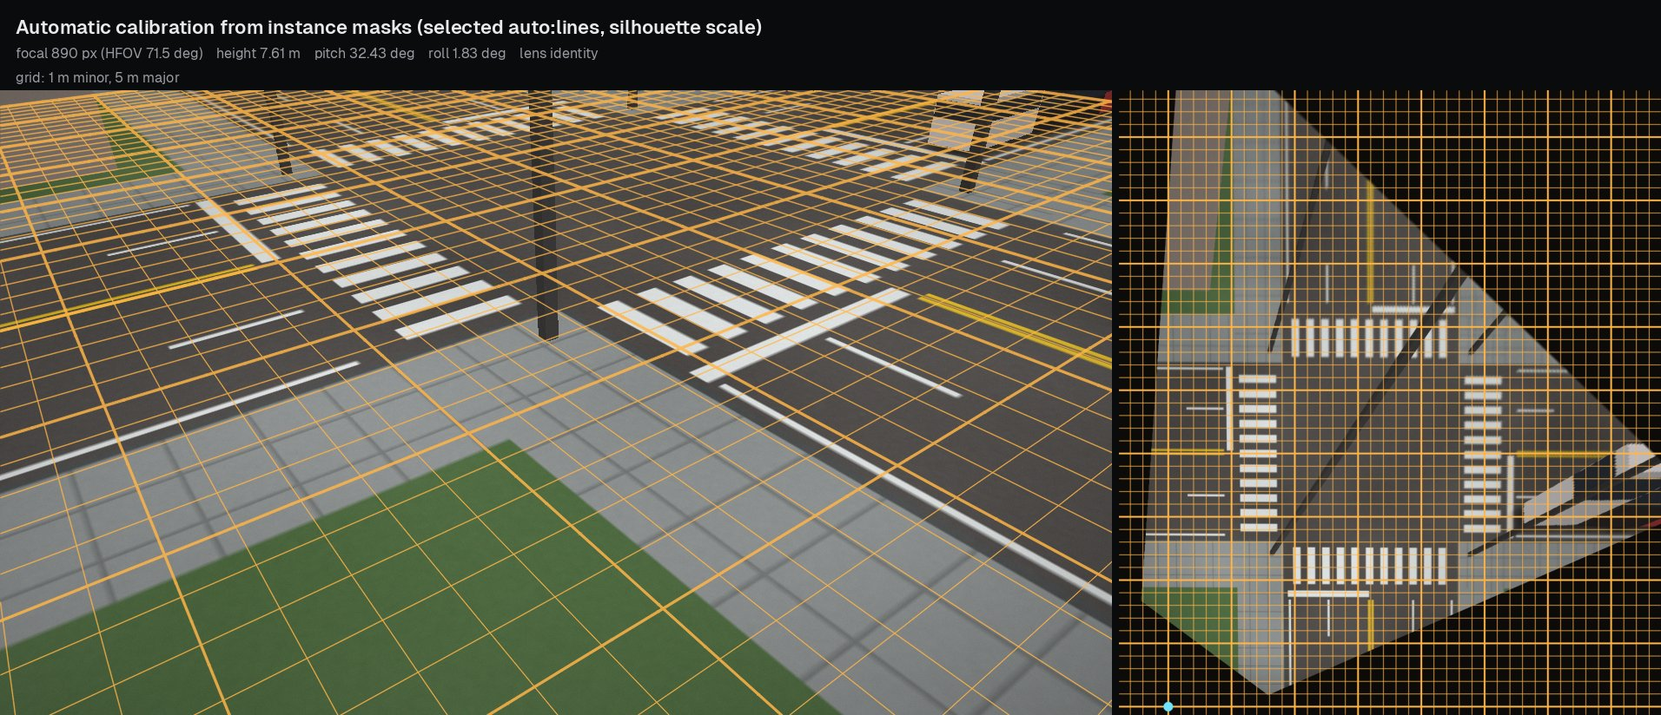
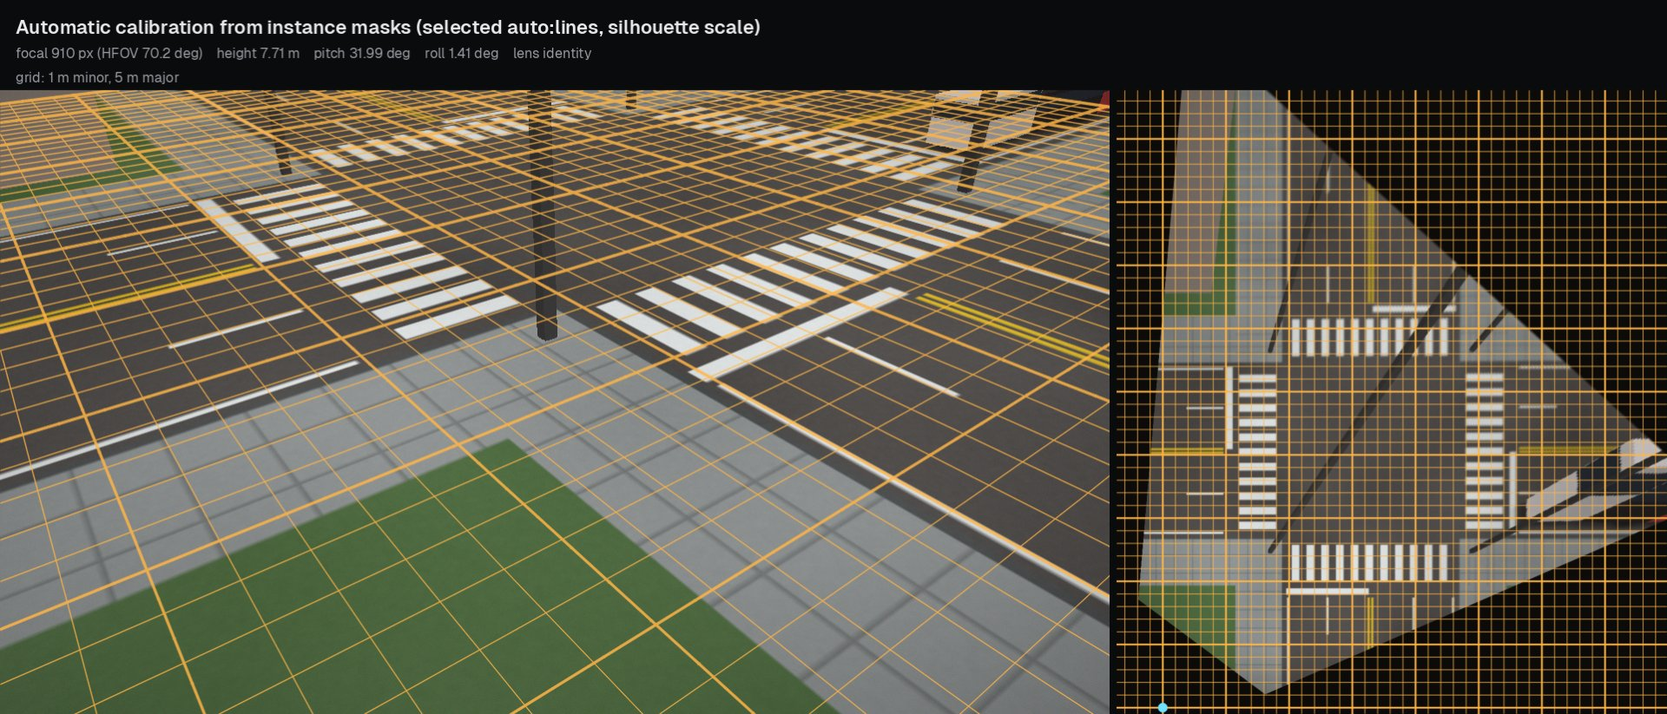
Use the street pair for the focal length unless the vertical segments reject right angles
A far vertical vanishing point is poorly constrained along its distance from the
image centre. On the synthetic intersection, the few short pole edges moved the
focal length by 7 % between OpenCV 4.13 and 5.0, which failed the lens test on
CI. The street pair is now tested against the vertical segments with a
likelihood-ratio test and used when it is not rejected. Line calibration of the
synthetic scene improves from -2.7 % to -0.4 % in focal length, and both
OpenCV versions agree; on the public intersection clips the test rejects the
pair and the cameras are unchanged.

diff --git a/src/tachymetry/calib/vanishing.py b/src/tachymetry/calib/vanishing.py
@@ -19,7 +19,7 @@ from ..geometry.camera import CalibrationError, Camera
 from ..geometry.lens import IdentityLens, Lens
 from .lines import Segments, VanishingPoint, estimate_vanishing_points
 
-__all__ = ["focal_from_vps", "camera_from_vps", "select_orthogonal_pair", "classify_vertical"]
+__all__ = ["focal_from_vps", "camera_from_vps", "select_orthogonal_pair", "classify_vertical", "vertical_consistency"]
 
 
 def focal_from_vps(v1: np.ndarray, v2: np.ndarray, pp: np.ndarray) -> float | None:
@@ -85,6 +85,74 @@ def select_orthogonal_pair(
             if best is None or score > best[3]:
                 best = (vps[i], vps[j], f, score)
     return None if best is None else best[:3]
+
+
+def vertical_consistency(
+    segs: Segments,
+    vertical: VanishingPoint,
+    v1: VanishingPoint,
+    v2: VanishingPoint,
+    focal: float,
+    image_size: tuple[int, int],
+    threshold_deg: float = 1.5,
+    level: float = 5.99,
+    sigma_px: float = 1.0,
+) -> dict:
+    """Test right-angled streets against the vertical evidence.
+
+    Two orthogonal ground directions imply a vertical vanishing point, the image of the normal
+    of their plane. The near-vertical segments of ``segs`` that support the measured ``vertical``
+    are fitted by weighted least squares on their angular residuals, and the implied point is
+    compared with the fit by a likelihood-ratio test with two degrees of freedom (``level`` = 5.99
+    is the 95 % quantile). The direction error of a segment of length ``L`` is taken as
+    ``sqrt(2) * sigma_px / L`` (endpoint noise plus the departure of real poles and facades from
+    the vertical), inflated when the residuals are larger than that. A far vertical vanishing point
+    is poorly constrained along its distance from the image centre, so its focal length is often
+    less precise than that of the street pair; this test tells whether the vertical contradicts
+    the street pair.
+
+    Returns ``{"n", "statistic", "rejected"}``; with fewer than four supporting segments the test
+    cannot reject.
+    """
+    from scipy.optimize import minimize
+
+    from .lines import _angular_residual
+
+    w, h = image_size
+    pp = np.array([(w - 1) / 2, (h - 1) / 2])
+    K = np.array([[focal, 0, pp[0]], [0, focal, pp[1]], [0, 0, 1.0]])
+    Ki = np.linalg.inv(K)
+    normal = np.cross(_direction(v1.point, Ki), _direction(v2.point, Ki))
+    implied = K @ normal
+    d = segs.directions
+    sv = segs.subset(np.abs(d[:, 1]) > math.cos(math.radians(25)))
+    if len(sv):
+        sv = sv.subset(_angular_residual(sv, vertical.point) < math.radians(threshold_deg))
+    n = len(sv)
+    if n < 4:
+        return {"n": n, "statistic": 0.0, "rejected": False}
+    wt = sv.lengths**2 / (2.0 * sigma_px**2)  # inverse variance of each segment's direction
+
+    def cost(v: np.ndarray) -> float:
+        return float(np.sum(wt * _angular_residual(sv, v) ** 2))
+
+    # minimise over the direction of the homogeneous point (finite and infinite points alike)
+    scale = np.array([w, w, 1.0])
+
+    def to_point(ab: np.ndarray) -> np.ndarray:
+        a, b = ab
+        u = np.array([math.sin(a) * math.cos(b), math.sin(a) * math.sin(b), math.cos(a)])
+        return np.array([u[0] * scale[0] + pp[0] * u[2], u[1] * scale[1] + pp[1] * u[2], u[2]])
+
+    p0 = vertical.point
+    u0 = np.array([p0[0] - pp[0] * p0[2], p0[1] - pp[1] * p0[2], p0[2]]) / scale
+    u0 = u0 / np.linalg.norm(u0) * (1 if u0[2] >= 0 else -1)
+    ab0 = np.array([math.acos(np.clip(u0[2], -1, 1)), math.atan2(u0[1], u0[0])])
+    best = minimize(lambda ab: cost(to_point(ab)), ab0, method="Nelder-Mead", options={"xatol": 1e-7, "fatol": 1e-12})
+    s_min = min(float(best.fun), cost(vertical.point))
+    inflation = max(1.0, s_min / (n - 2))  # residuals larger than the noise model
+    stat = (cost(implied) - s_min) / inflation
+    return {"n": n, "statistic": float(stat), "rejected": bool(stat > level)}
 
 
 def camera_from_vps(

diff --git a/src/tachymetry/calib/from_lines.py b/src/tachymetry/calib/from_lines.py
@@ -3,7 +3,10 @@
 Pipeline: plumb-line lens estimate on the traffic-free background, painted
 marking extraction, LSD segments, vanishing points of the two ground
 directions (lane lines, crosswalk stripes, kerbs, stop lines) and of the
-vertical (poles, facades), then rotation and focal length from orthogonality.
+vertical (poles, facades), then rotation and focal length: from the two ground
+directions when the vertical does not contradict right-angled streets
+(:func:`~tachymetry.calib.vanishing.vertical_consistency`), from one ground
+direction and the vertical otherwise.
 The metric scale comes from a :class:`ScaleCue`.
 """
 
@@ -20,7 +23,7 @@ from ..geometry.lens import IdentityLens, Lens
 from .lines import Segments, detect_segments, estimate_lens_vp_consistency, marking_mask
 from .result import CalibrationResult
 from .scale import scale_from_distance, scale_from_lane_spacing, scale_to_height
-from .vanishing import camera_from_vps, select_orthogonal_pair, vanishing_points_from_segments
+from .vanishing import camera_from_vps, select_orthogonal_pair, vanishing_points_from_segments, vertical_consistency
 
 __all__ = ["ScaleCue", "calibrate_from_lines", "apply_scale_cue"]
 
@@ -165,15 +168,23 @@ def calibrate_from_lines(
 
     cam = None
     main = None
+    pair = select_orthogonal_pair(horiz, size, vertical)
     if vertical is not None and horiz:
-        # preferred: a ground direction and the vertical give the focal length without assuming
-        # that the streets meet at right angles
+        # A ground direction and the vertical give the focal length without assuming that the
+        # streets meet at right angles, but a far vertical vanishing point fixes it poorly; the
+        # street pair is used instead when the vertical segments do not contradict it.
         cands = []
         for vp in horiz:
             f = focal_from_vps(vp.point, vertical.point, pp)
             if f is not None and f_lo <= f <= f_hi:
                 cands.append((vp.support, vp, f))
-        if cands:
+        details["focal_candidates"] = [c[2] for c in cands]
+        use_pair = False
+        if cands and pair is not None:
+            test = vertical_consistency(all_segs, vertical, pair[0], pair[1], pair[2], size, threshold_deg)
+            details["orthogonality_test"] = test
+            use_pair = not test["rejected"]
+        if cands and not use_pair:
             cands.sort(key=lambda c: -c[0])
             _, main, f = cands[0]
             fs = [c[2] for c in cands[:2]]
@@ -181,16 +192,17 @@ def calibrate_from_lines(
                 f = float(np.average(fs, weights=[c[0] for c in cands[:2]]))
             cam = camera_from_vps(main.point, None, size, v_z=vertical.point, focal=f, lens=lens_obj)
             details["solution"] = "ground direction + vertical (no orthogonality assumption)"
-            details["focal_candidates"] = [c[2] for c in cands]
     if cam is None:
-        pair = select_orthogonal_pair(horiz, size, vertical)
         if pair is None:
             raise CalibrationError("could not find two independent vanishing directions; use another method")
         vx, vy, f = pair
         main = vx if vx.support >= vy.support else vy
         other = vy if main is vx else vx
         cam = camera_from_vps(main.point, other.point, size, v_z=None, focal=f, lens=lens_obj)
-        details["solution"] = "two ground directions assumed orthogonal"
+        if "orthogonality_test" in details:
+            details["solution"] = "two orthogonal ground directions, consistent with the vertical"
+        else:
+            details["solution"] = "two ground directions assumed orthogonal"
         details["assumes_orthogonal_streets"] = True
     vx = main
     cam, sinfo = apply_scale_cue(cam, cue, mark_segs.subset(main.inliers))

diff --git a/tests/test_calibration.py b/tests/test_calibration.py
@@ -105,6 +105,39 @@ def test_tan_lens_is_recovered_from_straight_lines():
     assert abs(res.camera.pitch - cam.pitch) < 1.0
 
 
+def test_vertical_consistency_separates_right_angles_from_oblique_streets():
+    """Pole edges accept a right-angled street pair and reject streets meeting at 70 degrees."""
+    from tachymetry.calib.lines import Segments, VanishingPoint
+    from tachymetry.calib.vanishing import focal_from_vps, vertical_consistency
+
+    size = (1280, 720)
+    cam = Camera.from_pose(size, focal=900, height=8, pitch=30, yaw=20, roll=0.5)
+
+    def vp(d):
+        p = cam.K @ cam.R @ np.asarray(d, float)
+        return VanishingPoint(p / np.linalg.norm(p), np.zeros(0, bool), 1.0)
+
+    vert = vp([0, 0, 1])
+    v = vert.xy
+    rng = np.random.default_rng(0)
+    segs = []
+    for x in np.linspace(80, 1200, 12):  # 120 px pole edges across the image, endpoint noise 0.3 px
+        top = np.array([x, rng.uniform(40, 400)])
+        d = (v - top) / np.linalg.norm(v - top)
+        segs.append([*top, *(top + 120 * d)])
+    segs = Segments(np.array(segs) + rng.normal(0, 0.3, (12, 4)))
+    pp = np.array([(size[0] - 1) / 2, (size[1] - 1) / 2])
+
+    vx, vy = vp([1, 0, 0]), vp([0, 1, 0])
+    right = vertical_consistency(segs, vert, vx, vy, focal_from_vps(vx.point, vy.point, pp), size)
+    a = np.radians(70)
+    vo = vp([np.cos(a), np.sin(a), 0])
+    f_oblique = focal_from_vps(vx.point, vo.point, pp)  # the focal length right angles would imply
+    oblique = vertical_consistency(segs, vert, vx, vo, f_oblique, size)
+    assert right["n"] == 12 and not right["rejected"]
+    assert oblique["rejected"]
+
+
 def test_dash_regularity_checks_the_horizon():
     """Dash chains are recognised by their cross-ratio, and are regular only under a correct horizon."""
     from tachymetry.calib.from_markings import DashedLine, _regular_runs, marking_regularity

diff --git a/docs/docs/guide/auto-calibration.md b/docs/docs/guide/auto-calibration.md
@@ -44,7 +44,14 @@ $$
 f^2 = -(v_1 - c)\cdot(v_2 - c)
 $$
 
-(`focal_from_vps`). The preferred solution pairs each horizontal vanishing point with the vertical one, which are orthogonal whatever the road direction. Candidates with a horizontal field of view outside 15 to 130 degrees are discarded, the best-supported one is used, and the two best focal lengths are averaged (weighted by support) when they agree within 10 %. This solution makes no assumption that streets meet at right angles. Only without a usable vertical vanishing point are two horizontal vanishing points assumed orthogonal (`select_orthogonal_pair`, scored by $\sqrt{s_i s_j}$ times $|\cos \angle(n_{ij}, d_z)|^8$ when a vertical direction exists), which is recorded as `details["assumes_orthogonal_streets"]`. With a single road direction and no vertical structure, the focal length is not observable and the `lines` candidate fails.
+(`focal_from_vps`). Two solutions are available.
+
+- **Vertical solution.** Each horizontal vanishing point paired with the vertical one, which are orthogonal whatever the road direction, gives a focal length. Candidates with a horizontal field of view outside 15 to 130 degrees are discarded, the best-supported one is used, and the two best focal lengths are averaged (weighted by support) when they agree within 10 %. This solution makes no assumption that streets meet at right angles, but a far vertical vanishing point is poorly constrained along its distance from the image centre, and the focal length inherits that uncertainty.
+- **Street pair.** The best pair of horizontal vanishing points that are orthogonal for a plausible focal length (`select_orthogonal_pair`, scored by $\sqrt{s_i s_j}$ times $|\cos \angle(n_{ij}, d_z)|^8$ when a vertical direction exists).
+
+The street pair is used when the vertical segments do not contradict it (`vertical_consistency`). The pair implies a vertical vanishing point, the image of the normal of its plane. It is compared with the weighted least-squares fit of the near-vertical segments that support the measured vertical, by a likelihood-ratio test with two degrees of freedom at the 95 % level. The direction error of a segment of length $L$ is taken as $\sqrt{2}\,\sigma / L$ with $\sigma$ = 1 px, which covers endpoint noise and the departure of real poles and facades from the vertical; it is inflated when the residuals are larger. When the test rejects the pair, or without a pair, the vertical solution is used; without a usable vertical vanishing point, the pair is used untested. `details["orthogonality_test"]` reports the test and `details["assumes_orthogonal_streets"]` is set whenever the pair is used.
+
+On the synthetic intersection, 15 short pole edges do not reject the pair, whose focal length is within 0.4 % of the truth; the vertical solution would underestimate it by 2.7 %. On the public intersection clips, 31 to 46 pole and facade segments reject the pair, and the vertical solution is used. With a single road direction and no vertical structure, the focal length is not observable and the `lines` candidate fails.
 
 The rotation follows from the back-projected directions $d_x = K^{-1} v_x / \lVert K^{-1} v_x \rVert$ (the main road, world $+x$) and $d_z$ (vertical, oriented towards the top of the image), with $d_x$ orthogonalised against $d_z$ and oriented into the scene, $d_y = d_z \times d_x$ and $R = [d_x\ d_y\ d_z]$ projected onto $SO(3)$ (`camera_from_vps`). The camera is placed at height 1 and rejected unless $0° < \vartheta < 90°$. The `lines` score is the support of the main vanishing point as a fraction of the marking-segment length.
 
@@ -126,13 +133,13 @@ $$
 S = e^{-a / 10°}\; e^{-|\beta| / 0.15}\; e^{-c / 3°}\; e^{-\rho / 0.1} \times \begin{cases} 1 & 10° \le \mathrm{HFOV} \le 125° \\ 0.1 & \text{otherwise} \end{cases},
 $$
 
-with factors omitted when their evidence is missing; when such chains exist but $\rho$ is undefined for a camera (dash ends above its horizon), the factor is 0.5. The candidate with the highest $S$ is selected, except that a given field of view makes the `fov+vp` candidate the choice whenever it exists. With instance masks instead of cuboids, the footprint terms are absent, so the ranking rests on the vanishing-point residual and the dash regularity. The `lines` camera is computed from the same vanishing points that enter $c$, so its $c$ is close to zero by construction.
+with factors omitted when their evidence is missing; when such chains exist but $\rho$ is undefined for a camera (dash ends above its horizon), the factor is 0.5. The candidate with the highest $S$ is selected, except that a given field of view makes the `fov+vp` candidate the choice whenever it exists. With instance masks instead of cuboids, the footprint terms are absent, so the ranking rests on the vanishing-point residual and the dash regularity. A `lines` camera from the vertical solution is computed from the same vanishing points that enter $c$, so its $c$ is close to zero by construction; one from the street pair is not.
 
 In the [synthetic walkthrough](../examples/synthetic-calibration.md) (true camera: $f$ = 914 px, pitch 32°, roll 1.5°):
 
-- **Instance masks** give one candidate, `lines` ($f$ = 890 px, score 1.0).
-- **With the true 70° field of view** the `fov+vp` candidate is added ($f$ = 914 px, pitch 31.89°, roll 1.41°) and selected. `lines` lies within 10 % of the field of view and is kept, but its vanishing-point residual is zero by construction, so its score (1.0 against 0.95) cannot rank it against the camera built from the known field of view.
-- **With cuboid detections** the candidates scored `lines` 0.348, `cuboids` 0.279 ($f$ = 869 px) and `fused` 0.270 ($f$ = 883 px), and `lines` was selected.
+- **Instance masks** give one candidate, `lines` from the street pair ($f$ = 910.5 px, pitch 31.99°, score 0.948).
+- **With the true 70° field of view** the `fov+vp` candidate is added ($f$ = 914 px, pitch 31.89°, roll 1.41°, score 0.949) and selected, as a given field of view makes it the choice. `lines` lies within 10 % of the field of view and is kept.
+- **With cuboid detections** the candidates scored `lines` 0.326, `cuboids` 0.279 ($f$ = 869 px) and `fused` 0.270 ($f$ = 883 px), and `lines` was selected.
 
 No chain of five or more dashes lies on the road surface of that scene, so no dash factor enters these scores.
 

diff --git a/docs/docs/examples/synthetic-calibration.md b/docs/docs/examples/synthetic-calibration.md
@@ -58,10 +58,10 @@ Output (Linux, NumPy 2.4, OpenCV 4.13; 45 s on a CPU, most of it simulating the 
 
 ```text
 manual    [manual       ] focal  -0.04 %   pitch  +0.03 deg   roll  -0.05 deg   height   7.99 m
-lines     [lines        ] focal  -2.67 %   pitch  +0.43 deg   roll  +0.33 deg   height   8.00 m
-masks     [auto:lines   ] focal  -2.67 %   pitch  +0.43 deg   roll  +0.33 deg   height   7.61 m
+lines     [lines        ] focal  -0.39 %   pitch  -0.01 deg   roll  -0.09 deg   height   8.00 m
+masks     [auto:lines   ] focal  -0.39 %   pitch  -0.01 deg   roll  -0.09 deg   height   7.71 m
 masks+fov [auto:fov+vp  ] focal  +0.00 %   pitch  -0.11 deg   roll  -0.09 deg   height   7.75 m
-cuboids   [auto:lines   ] focal  -2.67 %   pitch  +0.43 deg   roll  +0.33 deg   height   7.93 m
+cuboids   [auto:lines   ] focal  -0.39 %   pitch  -0.01 deg   roll  -0.09 deg   height   7.95 m
 ```
 
 No chain of five or more dashes lies on the road surface of this scene, so the [dash check](../guide/calibration.md#dash-regularity) does not apply.
@@ -69,15 +69,15 @@ No chain of five or more dashes lies on the road surface of this scene, so the [
 How each estimate is obtained:
 
 - **manual** fits the physical camera to 12 correspondences, chooses the lens model by 10-fold cross-validation, and inherits its metric scale from the world coordinates ([Manual calibration](../guide/manual-calibration.md)).
-- **lines** recovers focal length, pitch and roll from the vanishing points of the painted markings and the vertical structures. Its height is the scale cue (`scale="height=8"`), so its height error is zero by construction and its accuracy is visible in the focal length and angles.
+- **lines** recovers focal length, pitch and roll from the vanishing points of the painted markings and the vertical structures. The 15 pole edges of the scene do not contradict right-angled streets, so the two street directions give the focal length ([Focal length and rotation](../guide/auto-calibration.md#road-markings-and-vanishing-points)). Its height is the scale cue (`scale="height=8"`), so its height error is zero by construction and its accuracy is visible in the focal length and angles.
 - **masks** is the default path of `tachymetry run` with a segmenting detector. Without cuboids or a field of view, `lines` is the only candidate.
-    - The metric scale comes from the vehicle silhouettes ([Automatic calibration](../guide/auto-calibration.md#metric-scale-from-vehicle-silhouettes)): factor 7.61 from 92 masks of 28 tracklets, mean cost 0.47.
+    - The metric scale comes from the vehicle silhouettes ([Automatic calibration](../guide/auto-calibration.md#metric-scale-from-vehicle-silhouettes)): factor 7.71 from 92 masks of 28 tracklets, mean cost 0.47.
     - The silhouette model of the calibration (beltline at 63 % of the height, cabin 55 % by 75 %) differs from the simulated car shape above, as a real car population would.
-    - The height error (−4.9 %) contains the error of the `lines` orientation, which the silhouette scale inherits.
-- **masks+fov** adds the true 70° field of view. The candidate built from it, `fov+vp` ($f$ = 914 px, pitch 31.89°, roll 1.41°), is selected: with a known field of view it is preferred over `lines` ($f$ = 890 px), whose vanishing-point residual is zero by construction and therefore cannot be compared with it on that score. The focal length is then the true one, the pitch error drops to −0.11° and the scale error to +2.4 %.
-- **cuboids** is the UrbanOmniDetect-2 path. The candidates scored `lines` 0.348, `cuboids` 0.279 and `fused` 0.270 ([Ranking](../guide/auto-calibration.md#ranking)); `lines` was selected and scaled from 351 trusted car footprints to 7.93 m (−0.9 %).
+    - The height error (−3.6 %) is close to the one with the true field of view below (−3.1 %), so it comes mostly from the difference between the two car shapes; the silhouette scale also inherits any error of the `lines` orientation.
+- **masks+fov** adds the true 70° field of view. The candidate built from it, `fov+vp` ($f$ = 914 px, pitch 31.89°, roll 1.41°), is selected, as a known field of view makes it the choice over `lines` ($f$ = 910.5 px). The focal length is then the true one; the pitch error is −0.11° and the scale error +2.4 %.
+- **cuboids** is the UrbanOmniDetect-2 path. The candidates scored `lines` 0.326, `cuboids` 0.279 and `fused` 0.270 ([Ranking](../guide/auto-calibration.md#ranking)); `lines` was selected and scaled from 351 trusted car footprints to 7.95 m (−0.6 %).
 
-Without a field of view, the automatic methods selected the `lines` orientation, which underestimates the focal length by 2.7 % and overestimates the pitch by 0.43 degrees; they differ only in the metric scale. With the field of view, `fov+vp` removes the focal-length error. The table below measures the consequence on the ground plane directly.
+Without a field of view, the automatic methods selected the `lines` orientation (focal length −0.39 %, pitch −0.01°); they differ only in the metric scale. With the field of view, `fov+vp` has the true focal length by construction. The table below measures the consequence on the ground plane directly.
 
 ## Measured errors
 

diff --git a/docs/docs/limitations.md b/docs/docs/limitations.md
@@ -146,7 +146,7 @@ Accept a calibration only after inspecting its preview and its dash check ([Cali
 
 Methods based on image geometry recover the camera up to scale; the scale then comes from one cue, and all distances and speeds inherit its error.
 
-- **Vehicle silhouettes** (default of automatic calibration with a segmenting detector) fit a rigid passenger-car model to car masks; the scale factor is the one under which the model explains the masks best. A local fleet whose cars differ from the model, other vehicle types labelled `car` ([Mixed traffic](#mixed-traffic-and-class-dependent-scale)), or a wrong orientation bias it, and all distances and speeds inherit the bias. On the synthetic intersection, the silhouette scale gave a height of 7.61 m for a camera 8 m high ([Synthetic calibration](examples/synthetic-calibration.md)).
+- **Vehicle silhouettes** (default of automatic calibration with a segmenting detector) fit a rigid passenger-car model to car masks; the scale factor is the one under which the model explains the masks best. A local fleet whose cars differ from the model, other vehicle types labelled `car` ([Mixed traffic](#mixed-traffic-and-class-dependent-scale)), or a wrong orientation bias it, and all distances and speeds inherit the bias. On the synthetic intersection, the silhouette scale gave a height of 7.71 m for a camera 8 m high ([Synthetic calibration](examples/synthetic-calibration.md)).
 - **Cuboid footprints** (UrbanOmniDetect-2) assume a median passenger-car footprint of 4.6 m by 1.85 m. The scale is a weighted median of per-footprint estimates in which widths carry 4 times the weight of lengths; the 4:1 weighting reflects an assumed ratio of the dispersions of car widths and lengths (`calib/from_cuboids.py`, `footprint_scale`), not a measurement.
 - **Depth networks** provide a metric scale that can be wrong by a large factor for viewpoints unlike their training data; within `calibrate_auto` it is replaced by the vehicle-size scale by default.
 - **Relative scale.** Without a cue (`lines` without `scale`, `geocalib` without `height`, or `calibrate_auto` when neither silhouettes nor footprints give a scale), the camera has height 1, `meta["metric"]` is `false`, and positions and speeds are in arbitrary units. Check `camera.json` before using the outputs.

diff --git a/CHANGELOG.md b/CHANGELOG.md
@@ -47,6 +47,7 @@ First public release, licensed under the Apache License 2.0. Detector weights ar
 - Automatic calibration:
     - Orientation comes from road-marking and vertical vanishing points, from a known horizontal field of view with the main ground vanishing point (`calibration.hfov_deg`, `tachymetry calibrate --hfov`), or from the optional depth-plus-segmentation and GeoCalib back-ends.
     - A given field of view is authoritative: candidates more than 10 % away from its focal length are dropped.
+    - From road markings, the focal length comes from two orthogonal street directions unless the vertical segments reject right angles by a likelihood-ratio test (`vertical_consistency`), and from one street direction and the vertical otherwise. A far vertical vanishing point fixes the focal length poorly, so this solution no longer depends on the few short pole edges of a scene.
     - The metric scale comes from car silhouettes in the instance masks, or from cuboid footprints with UrbanOmniDetect-2.
 - A dash-regularity check ranks the candidates and warns about irregular dashes. Dashed lane lines are searched on the road surface swept by vehicles, from the cross-ratio of their dash starts and their perspective order. Chains of five or more dashes compare their ground lengths and periods along the road.
 - Automatic calibrations that place the camera more than 250 m above the ground raise a warning, which is also stored in `camera.meta["warnings"]`.

diff --git a/docs/media/synthetic_calibration.md b/docs/media/synthetic_calibration.md
@@ -1,7 +1,7 @@
 | Method | Input | Focal error (%) | Pitch error (deg) | Roll error (deg) | Height error (m) | Scale error (%) | Ground RMS after rigid alignment (m) |
 |---|---|---|---|---|---|---|---|
 | Manual | 12 points, 1.0 px noise, lens auto | +0.14 | -0.02 | +0.04 | 0.00 | +0.06 | 0.019 |
-| Road markings (`lines`) | background image, camera height 8 m | -2.67 | +0.43 | +0.33 | 0.00 | -1.84 | 0.286 |
-| Automatic, masks (`auto:lines`) | background image + 60 s of instance masks | -2.67 | +0.43 | +0.33 | -0.39 | +3.18 | 0.414 |
+| Road markings (`lines`) | background image, camera height 8 m | -0.39 | -0.01 | -0.09 | 0.00 | -0.74 | 0.100 |
+| Automatic, masks (`auto:lines`) | background image + 60 s of instance masks | -0.39 | -0.01 | -0.09 | -0.29 | +2.96 | 0.353 |
 | Automatic, masks, known field of view (`auto:fov+vp`) | as above, known 70 deg field of view | 0.00 | -0.11 | -0.09 | -0.25 | +2.37 | 0.286 |
-| Automatic, cuboids (`auto:lines`) | background image + 60 s of cuboid detections | -2.67 | +0.43 | +0.33 | -0.07 | -0.96 | 0.210 |
+| Automatic, cuboids (`auto:lines`) | background image + 60 s of cuboid detections | -0.39 | -0.01 | -0.09 | -0.05 | -0.08 | 0.045 |
